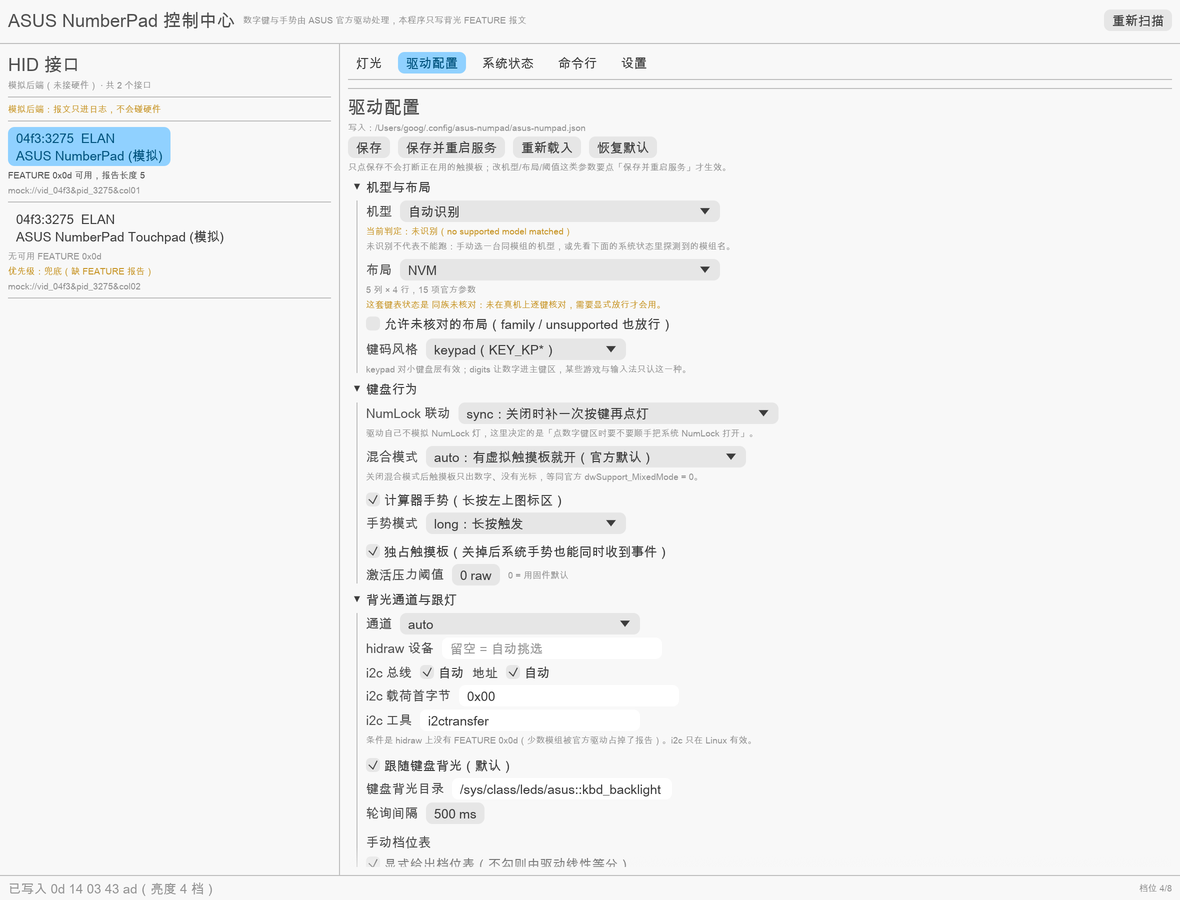
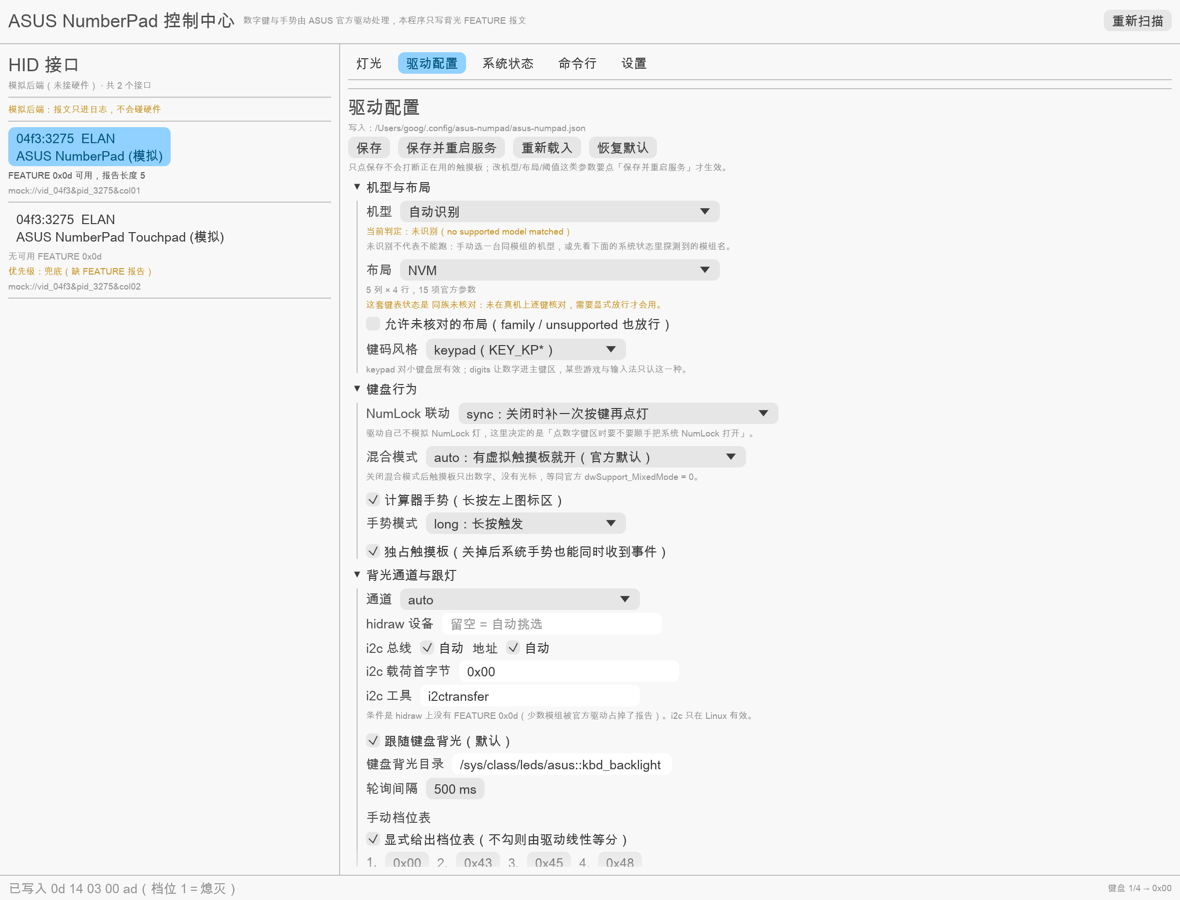
docs: 文档、站点与包的口径对齐 1.0.3
三语 README 的源码清单漏了 lib.rs / keycodes.rs / led_proto.rs，补上；
GUI 驱动配置页的"手势与力度"分组删掉力度之后只剩各类阈值，更名为
"手势与阈值"，gui/README 同步。man 页按 1.0.3 的实际子命令与选项重写。
Gentoo ebuild 从 1.0.1 更名到 1.0.3。CHANGELOG 与 release-notes 补这轮
文档与站点对齐，packaging/README 说明分发包只装 CLI、GUI 自行编译。
驱动配置页截图重出（不含压力字样），官网 index.html 与三语 app.js 的
图形界面段落补上五页签与键盘四档映射。Cargo.toml 补 homepage。

diff --git a/site/assets/app.js b/site/assets/app.js
@@ -91,7 +91,7 @@
 
     "use.title": "常用命令",
     "use.sub": "守护进程由 systemd 启动，命令行用于排查与调参。",
-    "use.gui": "可选的 egui 窗口（<code>asus-numpad-gui</code>）写的是同一份 FEATURE <code>0x0d</code> 报文。Linux 上它就是完整的控制中心：灯光、驱动配置的全部字段、系统状态与服务启停，外加每个 <code>asus-numpad</code> 子命令的表单——执行时跑的就是同一个可执行文件，不重写逻辑，也就不会漂移。",
+    "use.gui": "可选的 egui 窗口（<code>asus-numpad-gui</code>）写的是同一份 FEATURE <code>0x0d</code> 报文。Linux 上它是完整的控制中心，分五个页签：灯光（含键盘四档到触摸板亮度的映射，逐档可改）、驱动配置的全部字段、系统状态与服务启停、每个 <code>asus-numpad</code> 子命令的表单，以及窗口自身的设置。命令页执行的是同一个可执行文件，不重写逻辑，也就不会漂移。",
     "use.guiWin": "Windows 上只做灯光：接口、档位、跟随 NumLock、写入日志。小键盘输入交给官方驱动。",
     "use.a.t": "运行与自检",
     "use.b.t": "背光",
@@ -210,7 +210,7 @@
 
     "use.title": "常用指令",
     "use.sub": "守護行程由 systemd 啟動，命令列用於排查與調參。",
-    "use.gui": "可選的 egui 視窗（<code>asus-numpad-gui</code>）寫的是同一份 FEATURE <code>0x0d</code> 報文。Linux 上它就是完整的控制中心：燈光、驅動設定的全部欄位、系統狀態與服務啟停，外加每個 <code>asus-numpad</code> 子命令的表單——執行時跑的就是同一個執行檔，不重寫邏輯，也就不會漂移。",
+    "use.gui": "可選的 egui 視窗（<code>asus-numpad-gui</code>）寫的是同一份 FEATURE <code>0x0d</code> 報文。Linux 上它是完整的控制中心，分五個頁籤：燈光（含鍵盤四檔到觸控板亮度的對映，逐檔可改）、驅動設定的全部欄位、系統狀態與服務啟停、每個 <code>asus-numpad</code> 子命令的表單，以及視窗自行的設定。命令頁執行的是同一個執行檔，不重寫邏輯，也就不會漂移。",
     "use.guiWin": "Windows 上只做燈光：介面、檔位、跟隨 NumLock、寫入日誌。小鍵盤輸入交給官方驅動。",
     "use.a.t": "執行與自我檢查",
     "use.b.t": "背光",

diff --git a/site/index.html b/site/index.html
@@ -432,9 +432,10 @@ asus-numpad --lang en check</code></pre>
         <img src="assets/screenshots/gui-main.png" alt="asus-numpad-gui control center on Linux: device list on the left, lighting and driver config tabs on the right" width="1180" height="900" loading="lazy" decoding="async">
         <figcaption data-i18n="use.gui">
           The optional egui window (<code>asus-numpad-gui</code>) writes the same FEATURE <code>0x0d</code> report.
-          On Linux it is the whole control center — lighting, every driver config field, system state with unit
-          control, and a form for each <code>asus-numpad</code> subcommand that runs the same binary in the
-          background. Nothing is re-implemented, so the two never drift apart.
+          On Linux it is the whole control center in five tabs: lighting — including the keyboard's four brightness
+          steps mapped onto touchpad levels, editable step by step — every driver config field, system state with
+          unit control, a form for each <code>asus-numpad</code> subcommand, and the window's own settings. The
+          command tab runs the same binary, so the two never drift apart.
         </figcaption>
       </figure>
       <figure class="gui-shot compact reveal">

diff --git a/gui/README.md b/gui/README.md
@@ -41,14 +41,14 @@ Linux 是全套。灯光页：
 
 ![Linux 控制中心 · 驱动配置](../site/assets/screenshots/gui-driver.png)
 
-「驱动配置」页按驱动配置文件（`/etc/asus-numpad.json`，普通用户下是 `~/.config/asus-numpad.json`）的字段分组，改完不写盘、只在内存里攒草稿，底部按钮才落盘：
+「驱动配置」页按驱动配置文件（`~/.config/asus-numpad/asus-numpad.json`，root 下 `/etc/asus-numpad/asus-numpad.json`）的字段分组，改完不写盘、只在内存里攒草稿，底部按钮才落盘：
 
 | 分组 | 可调项 |
 | --- | --- |
 | 机型与布局 | 机型（自动识别结果 / 手动指定）、触摸板布局、是否允许未验证布局、键码风格（数字键 / 小键盘） |
-| 键盘行为 | NumLock 联动策略、混合模式、计算器手势（长按 / 关闭）、激活压力阈值（0 用固件默认） |
+| 键盘行为 | NumLock 联动策略、混合模式、计算器手势（长按 / 关闭）、独占触摸板 |
 | 背光通道与跟灯 | 通道（无 / hidraw / i2c）、hidraw 路径、i2c 总线与地址、是否跟随键盘背光、跟随轮询间隔、手动档位表（序号 + 命令字） |
-| 手势与力度 | 触摸板尺寸、各手势判定阈值 |
+| 手势与阈值 | 触摸板尺寸、各手势判定阈值与时间间隔 |
 | 时序参数 | 固件帧计数类的时序常数，一般不用动 |
 | 驱动语言 | 驱动与 CLI 的输出语言（界面自身语言不受影响） |
 | 配置文件内容 | 与 `asus-numpad --dump-config` 一致的只读 JSON 预览 |
@@ -77,7 +77,7 @@ Linux 是全套。灯光页：
 - 逐档一个下拉，选项只有 `0x00` 与 `0x41`…`0x48`——硬件没有中间的灰度值，写别的数不会更亮，界面也不给填。
 - 每行一个「试亮」按钮，发出去的就是那一档的报文，看着调而不是记数字。
 - 映射要求单调不减：改出「第 3 档比第 4 档还亮」这类顺序，界面会标出冲突，但不会拦着不让存——有些机型确实需要平台特殊取值。
-- 「写入驱动配置」把这张表写进 `/etc/asus-numpad.json` 的 `manual_brightness_levels`，「从驱动配置读取」反向覆盖界面；驱动配置页的手动档位表也有对应两个按钮，两边不会各改一套。
+- 「写入驱动配置」把这张表写进驱动配置的 `manual_brightness_levels`，「从驱动配置读取」反向覆盖界面；驱动配置页的手动档位表也有对应两个按钮，两边不会各改一套。
 - 切到 8 档模式时不显示这张表：8 档就是一个键盘档对一个命令字，线性等分即可。
 
 状态栏右下角常显当前映射，例如「键盘 3/4 → 0x46」，改完点灯之前就能确认。

diff --git a/CHANGELOG.md b/CHANGELOG.md
@@ -7,6 +7,14 @@
 
 ## 1.0.3
 
+### 删掉机器上并不存在的压感
+
+- NumberPad 这块是普通电容触摸板，没有压力档位。原来照官方 INF 的 `FORCE_07` / `FORCE_08`
+  给「小键盘态要更实的下压」留了 `pressure_numpad_min`、`--pressure-min`、界面滑块，全部删除：
+  配置字段、引擎里的压力等待/旁路、`--dump` 的 `p=` 与 `--check` 的压力轴报告、三语文案一并清掉。
+- 老配置里残留的 `pressure_numpad_min` 在 `Config::from_json` 里显式丢弃，不会下次保存又被写回。
+- 压力轴事件现在直接忽略，判键不再有「压力还没上报所以按了没反应」这条可疑路径。
+
 ### 常驻循环的开销
 
 - 触摸板事件从「每帧逐条 `read`」改成一次批量读进复用缓冲，读到的条数按实际返回计，
@@ -63,6 +71,18 @@
 - 五个视口（360 / 390 / 430 / 768 / 1440）无横向溢出，导航不再被裁切、锚点跳转不被吸顶栏遮挡。
 - 键盘可达：跳过导航链接、可见焦点环、机型列表按 roving tabindex 走。
 - 主题跟随 `prefers-color-scheme`。
+
+### 文档、站点与包的口径对齐
+
+- 三份 README、`gui/README.md`、`docs/install.md` 里残留的 `/etc/asus-numpad.json` 改成实际路径：
+  普通用户 `~/.config/asus-numpad/asus-numpad.json`，root 下 `/etc/asus-numpad/asus-numpad.json`。
+- 三份 README 的源码清单补上一直漏记的 `src/lib.rs`、`src/keycodes.rs`、`src/led_proto.rs`。
+- man 页按 1.0.3 的实际行为重写：补 `levels` / `led` / `layout` 子命令和 `--i2c-bus` /
+  `--i2c-addr` / `--i2c-transfer` 选项，订正 `bright` 默认四档（`0x00` / `0x43` / `0x45` / `0x48`），
+  「已知限制」段原还在提已删掉的 hidraw 前缀，改成 `led` 诊断指引。
+- Gentoo ebuild 跟着版本号由 1.0.1 更名为 1.0.3，内部版本同步，`docs/install.md` 的指引一并改。
+- GUI 驱动配置页「手势与力度」更名「手势与阈值」：压感删掉之后这一组只剩距离与时间阈值。
+- 驱动配置页截图按当前界面重出；站点的 `use` 段补上五个页签与四档映射（三语）。
 
 ## 1.0.2
 

diff --git a/README.md b/README.md
@@ -367,7 +367,7 @@ On Linux it is the whole thing, split into five tabs:
 | Tab | Contents |
 | --- | --- |
 | Lighting | interface list, keyboard 4 steps → touchpad brightness map (editable per step), on / off, NumLock follow, keyboard-brightness follow, report log |
-| Driver config | every field of `/etc/asus-numpad.json` as a control: model, layout, keypad style, NumLock policy, gesture thresholds, backlight channel and follow poll, manual step table, timing constants, driver language |
+| Driver config | every field of the driver config (`~/.config/asus-numpad/asus-numpad.json`, root: `/etc/asus-numpad/asus-numpad.json`) as a control: model, layout, keypad style, NumLock policy, gesture thresholds, backlight channel and follow poll, manual step table, timing constants, driver language |
 | System | config path, detected model, layout, hidraw channel, unit state, start / stop / restart |
 | Command line | one form per `asus-numpad` subcommand, spawning the real binary |
 | Settings | step count, NumLock follow, poll interval, enable on login |
@@ -393,6 +393,7 @@ No root. udev tags hidraw and event nodes with `TAG+="uaccess"`, the daemon runs
 
 | Path | Purpose |
 | --- | --- |
+| `src/lib.rs` | Library root: modules shared by the binary and the GUI |
 | `src/main.rs` | CLI parsing and wiring |
 | `src/engine.rs` | Vendor algorithm state machine |
 | `src/layout.rs` | Layout geometry, 44 HID entries, coordinate conversion |
@@ -401,6 +402,8 @@ No root. udev tags hidraw and event nodes with `TAG+="uaccess"`, the daemon runs
 | `src/led_policy.rs` | Backlight node scoring |
 | `src/sku.rs` | Model table, runtime detection, manual pin, per-generation excludes |
 | `src/i18n.rs` | Three languages, overridable with external `.lang` files |
+| `src/keycodes.rs` | Linux input event codes, kept local so `layout` / `engine` compile on any platform |
+| `src/led_proto.rs` | Backlight FEATURE `0x0d` report encoding, the single source for CLI and GUI |
 | `src/linux/` | evdev, uinput, hidraw and i2c backends |
 | `gui/` | egui window: lighting only on Windows, full control center on Linux |
 | `lang/` | zh-CN, zh-TW, en strings |

diff --git a/README.zh-CN.md b/README.zh-CN.md
@@ -330,7 +330,7 @@ Linux 上是全套，分五个页签：
 | 页签 | 内容 |
 | --- | --- |
 | 灯光 | 接口列表、键盘四档 → 触摸板亮度映射（逐档可改、可试亮、可与驱动配置互相同步）、点亮 / 熄灭、跟随 NumLock 与键盘背光、报文日志 |
-| 驱动配置 | `/etc/asus-numpad.json` 的每个字段都做成控件：机型、布局、键码风格、NumLock 策略、手势阈值、背光通道与跟灯轮询、手动档位表、时序常数、驱动语言 |
+| 驱动配置 | 驱动配置（`~/.config/asus-numpad/asus-numpad.json`，root 下 `/etc/asus-numpad/asus-numpad.json`）的每个字段都做成控件：机型、布局、键码风格、NumLock 策略、手势阈值、背光通道与跟灯轮询、手动档位表、时序常数、驱动语言 |
 | 系统状态 | 配置文件路径、机型、布局、hidraw 通道、单元状态，可启动 / 停止 / 重启 |
 | 命令行 | 每个 `asus-numpad` 子命令一张表单，执行时跑同一个可执行文件 |
 | 设置 | 档位数、跟随 NumLock、轮询间隔、开机自启 |
@@ -355,6 +355,7 @@ cargo run -p asus-numpad-gui      # 或 cargo build --release -p asus-numpad-gui
 
 | 路径 | 用途 |
 | --- | --- |
+| `src/lib.rs` | 库入口：可执行文件与 GUI 共用的模块 |
 | `src/main.rs` | CLI 解析与装配 |
 | `src/engine.rs` | 厂商算法状态机 |
 | `src/layout.rs` | 布局几何、44 条 HID 表、坐标换算 |
@@ -363,6 +364,8 @@ cargo run -p asus-numpad-gui      # 或 cargo build --release -p asus-numpad-gui
 | `src/led_policy.rs` | 背光节点打分 |
 | `src/sku.rs` | 机型表、运行期识别、手动指定、代际排除 |
 | `src/i18n.rs` | 三种语言，可用外部 `.lang` 文件覆盖 |
+| `src/keycodes.rs` | Linux input 事件码，自带一份让 `layout` / `engine` 跨平台可编译 |
+| `src/led_proto.rs` | 背光 FEATURE `0x0d` 报文的编解码，CLI 与 GUI 的单一真源 |
 | `src/linux/` | evdev、uinput、hidraw、i2c 后端 |
 | `gui/` | egui 窗口：Windows 只管灯光，Linux 是完整控制中心 |
 | `lang/` | zh-CN、zh-TW、en 文案 |

diff --git a/README.zh-TW.md b/README.zh-TW.md
@@ -331,7 +331,7 @@ Linux 上是全套，分五個頁籤：
 | 頁籤 | 內容 |
 | --- | --- |
 | 燈光 | 介面清單、鍵盤四檔 → 觸控板亮度對映（逐檔可改、可試亮、可與驅動設定互相同步）、點亮 / 熄滅、跟隨 NumLock 與鍵盤背光、報文日誌 |
-| 驅動設定 | `/etc/asus-numpad.json` 的每個欄位都做成控制項：機型、佈局、鍵碼風格、NumLock 策略、手勢閾值、背光通道與跟燈輪詢、手動檔位表、時序常數、驅動語言 |
+| 驅動設定 | 驅動設定（`~/.config/asus-numpad/asus-numpad.json`，root 下 `/etc/asus-numpad/asus-numpad.json`）的每個欄位都做成控制項：機型、佈局、鍵碼風格、NumLock 策略、手勢閾值、背光通道與跟燈輪詢、手動檔位表、時序常數、驅動語言 |
 | 系統狀態 | 設定檔路徑、機型、佈局、hidraw 通道、單元狀態，可啟動 / 停止 / 重啟 |
 | 命令列 | 每個 `asus-numpad` 子命令一張表單，執行時跑同一個執行檔 |
 | 設定 | 檔位數、跟隨 NumLock、輪詢間隔、開機自啟 |
@@ -356,6 +356,7 @@ cargo run -p asus-numpad-gui      # 或 cargo build --release -p asus-numpad-gui
 
 | 路徑 | 用途 |
 | --- | --- |
+| `src/lib.rs` | 程式庫入口：執行檔與 GUI 共用的模組 |
 | `src/main.rs` | CLI 解析與組裝 |
 | `src/engine.rs` | 廠商演算法狀態機 |
 | `src/layout.rs` | 佈局幾何、44 條 HID 表、座標換算 |
@@ -364,6 +365,8 @@ cargo run -p asus-numpad-gui      # 或 cargo build --release -p asus-numpad-gui
 | `src/led_policy.rs` | 背光節點評分 |
 | `src/sku.rs` | 機型表、執行期辨識、手動指定、世代排除 |
 | `src/i18n.rs` | 三種語言，可用外部 `.lang` 檔覆寫 |
+| `src/keycodes.rs` | Linux input 事件碼，自帶一份讓 `layout` / `engine` 跨平台可編譯 |
+| `src/led_proto.rs` | 背光 FEATURE `0x0d` 報文的編解碼，CLI 與 GUI 的單一真源 |
 | `src/linux/` | evdev、uinput、hidraw、i2c 後端 |
 | `gui/` | egui 視窗：Windows 只管燈光，Linux 是完整控制中心 |
 | `lang/` | zh-CN、zh-TW、en 文案 |

diff --git a/docs/release-notes/1.0.3.md b/docs/release-notes/1.0.3.md
@@ -1,3 +1,3 @@
-常驻循环去掉每帧堆分配并批量读事件，点灯的开关与档位两条报文分开送（原先连发会被忽略），读错误不再一碰就退。机型展示名与判定依据可翻译，附三个测试防止三语文案与识别结论漂移。官网对比度全部达到 WCAG AA。
+这批触摸板是普通电容板，没有压力档位，照官方 INF 里 `FORCE_07` / `FORCE_08` 留的压感阈值整条链路删除：配置字段、命令行参数、引擎里的压力等待、界面滑块与三语文案一并清掉，老配置里残留的键在读取时显式丢弃。常驻循环去掉每帧堆分配并批量读事件，点灯的开关与档位两条报文分开送（原先连发会被忽略），读错误不再一碰就退，热插拔或系统短暂抢占不会让服务退出。机型展示名与判定依据可翻译，附三个测试防止三语文案与识别结论漂移。文档、man 页、Gentoo ebuild 与官网文案同步到 1.0.3 的实际行为。
 
 完整变更见 [CHANGELOG.md](https://github.com/asus-numpad/asus-numpad/blob/main/CHANGELOG.md)。

diff --git a/docs/install.md b/docs/install.md
@@ -223,7 +223,7 @@ sudo ./install.sh
 sudo mkdir -p /etc/portage/repos.conf
 # 用本地 overlay 即可：
 sudo mkdir -p /var/db/repos/asus-numpad/sys-apps/asus-numpad
-sudo cp packaging/gentoo/asus-numpad-1.0.1.ebuild /var/db/repos/asus-numpad/sys-apps/asus-numpad/
+sudo cp packaging/gentoo/asus-numpad-1.0.3.ebuild /var/db/repos/asus-numpad/sys-apps/asus-numpad/
 cd /var/db/repos/asus-numpad && sudo repoman manifest 2>/dev/null || sudo pkgdev manifest
 sudo emerge -av sys-apps/asus-numpad
 ```

diff --git a/packaging/README.md b/packaging/README.md
@@ -20,6 +20,10 @@ packaging/
 └── nix/              package.nix + NixOS module（配合根目录 flake.nix）
 ```
 
+分发包只装 `asus-numpad`、man 页、service 与 udev 规则。GUI（`asus-numpad-gui`）不进包：
+它在 Linux 上只是可选项，egui / winit 的依赖体积比驱动本体大一个量级，编译一次要拉几十个
+crate。要用就自行 `cargo build --release -p asus-numpad-gui`。
+
 ## 用法
 
 ```bash
